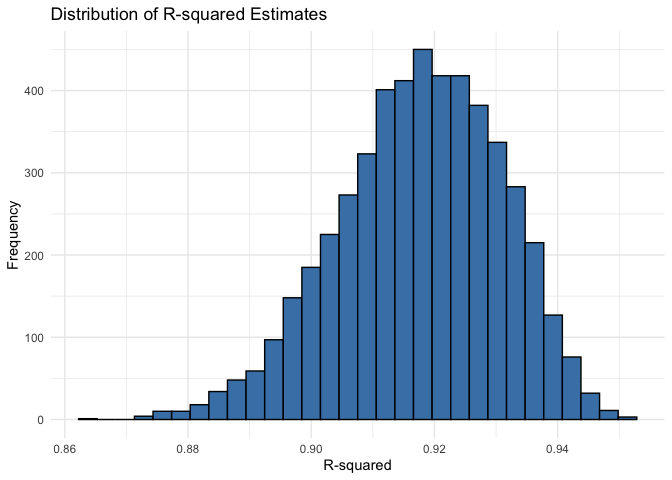
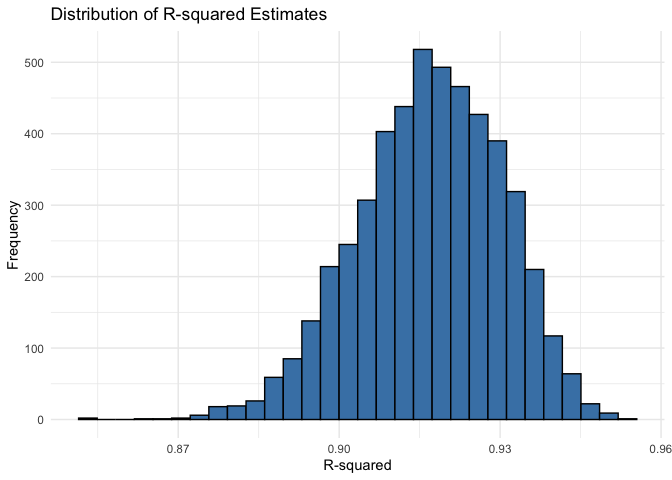
finish the problem 3 and added some comments

diff --git a/p8105_hw6_jy3360.md b/p8105_hw6_jy3360.md
@@ -311,12 +311,12 @@ head(bootstrap_results_2)
     ## # A tibble: 6 × 6
     ##   boot_number r.squared `(Intercept)`     prcp  tmin log_product
     ##         <int>     <dbl>         <dbl>    <dbl> <dbl>       <dbl>
-    ## 1           1     0.916          8.31 -0.00279 0.994       NA   
-    ## 2           2     0.894          8.44  0.00257 0.988       -5.97
-    ## 3           3     0.907          8.05  0.00470 1.01        -5.35
-    ## 4           4     0.930          7.66 -0.00554 1.04        NA   
-    ## 5           5     0.921          8.17 -0.00844 1.01        NA   
-    ## 6           6     0.917          7.90  0.00423 1.02        -5.45
+    ## 1           1     0.910          8.22 -0.00376  1.01       NA   
+    ## 2           2     0.927          8.40 -0.00805  1.01       NA   
+    ## 3           3     0.911          7.87  0.00403  1.02       -5.50
+    ## 4           4     0.916          8.40 -0.00319  1.01       NA   
+    ## 5           5     0.920          7.85 -0.00565  1.03       NA   
+    ## 6           6     0.909          7.97  0.00456  1.02       -5.37
 
 ``` r
 # Plot the distribution of r^2 estimates
@@ -337,7 +337,7 @@ bootstrap_results_2 %>%
        x = "log(beta1 * beta2)", y = "Frequency")
 ```
 
-    ## Warning: Removed 3419 rows containing non-finite values (`stat_bin()`).
+    ## Warning: Removed 3369 rows containing non-finite values (`stat_bin()`).
 
 ![](p8105_hw6_jy3360_files/figure-gfm/unnamed-chunk-7-2.png)<!-- -->
 
@@ -370,11 +370,13 @@ ci_95 %>%
 | quantity_type | lower_ci | upper_ci |
 |:--------------|---------:|---------:|
 | r_squared     |    0.889 |    0.941 |
-| log_product   |   -8.975 |   -4.622 |
+| log_product   |   -8.875 |   -4.552 |
+
+**Comments**
 
 - The 95% CI for $\hat{r}^2$ is (0.889, 0.941)
-- The 95% CI for $\log(\hat{\beta}_1 \times \hat{\beta}_2)$ is (-8.975,
-  -4.622)
+- The 95% CI for $\log(\hat{\beta}_1 \times \hat{\beta}_2)$ is (-8.875,
+  -4.552)
 
 # Problem 3
 
@@ -406,67 +408,27 @@ consists of roughly 4000 children and includes the following variables:
 - `smoken`: average number of cigarettes smoked per day during pregnancy
 - `wtgain`: mother’s weight gain during pregnancy (pounds)
 
+### Part a
+
 Load and clean the data for regression analysis (i.e. convert numeric to
 factor where appropriate, check for missing data, etc.).
 
 ``` r
-birth_data <- read.csv('birthweight.csv')
+birth_data <- 
+  read.csv('birthweight.csv') %>%
+  janitor::clean_names() %>%
+  drop_na() 
 
 # convert the necessary variables to factors
 categorical_vars <- c('babysex', 'frace', 'malform', 'mrace')
 birth_data[categorical_vars] <- lapply(birth_data[categorical_vars], factor)
 
 # deselect variables with all 0 observations 
-# to convert grams to pounds, you can multiply the number of grams by 0.00220462
+# to convert grams to pounds by multiplying the number of grams by 0.00220462
 birth_data <- birth_data %>%
   select(-c(pnumlbw, pnumsga)) %>%
   mutate(bwt = bwt * 0.00220462)
-
-# check for missing values
-skimr::skim(birth_data)
 ```
-
-|                                                  |            |
-|:-------------------------------------------------|:-----------|
-| Name                                             | birth_data |
-| Number of rows                                   | 4342       |
-| Number of columns                                | 18         |
-| \_\_\_\_\_\_\_\_\_\_\_\_\_\_\_\_\_\_\_\_\_\_\_   |            |
-| Column type frequency:                           |            |
-| factor                                           | 4          |
-| numeric                                          | 14         |
-| \_\_\_\_\_\_\_\_\_\_\_\_\_\_\_\_\_\_\_\_\_\_\_\_ |            |
-| Group variables                                  | None       |
-
-Data summary
-
-**Variable type: factor**
-
-| skim_variable | n_missing | complete_rate | ordered | n_unique | top_counts                      |
-|:--------------|----------:|--------------:|:--------|---------:|:--------------------------------|
-| babysex       |         0 |             1 | FALSE   |        2 | 1: 2230, 2: 2112                |
-| frace         |         0 |             1 | FALSE   |        5 | 1: 2123, 2: 1911, 4: 248, 3: 46 |
-| malform       |         0 |             1 | FALSE   |        2 | 0: 4327, 1: 15                  |
-| mrace         |         0 |             1 | FALSE   |        4 | 1: 2147, 2: 1909, 4: 243, 3: 43 |
-
-**Variable type: numeric**
-
-| skim_variable | n_missing | complete_rate |   mean |    sd |     p0 |    p25 |    p50 |    p75 |   p100 | hist  |
-|:--------------|----------:|--------------:|-------:|------:|-------:|-------:|-------:|-------:|-------:|:------|
-| bhead         |         0 |             1 |  33.65 |  1.62 |  21.00 |  33.00 |  34.00 |  35.00 |  41.00 | ▁▁▆▇▁ |
-| blength       |         0 |             1 |  49.75 |  2.72 |  20.00 |  48.00 |  50.00 |  51.00 |  63.00 | ▁▁▁▇▁ |
-| bwt           |         0 |             1 |   6.87 |  1.13 |   1.31 |   6.19 |   6.91 |   7.63 |  10.56 | ▁▁▇▇▁ |
-| delwt         |         0 |             1 | 145.57 | 22.21 |  86.00 | 131.00 | 143.00 | 157.00 | 334.00 | ▅▇▁▁▁ |
-| fincome       |         0 |             1 |  44.11 | 25.98 |   0.00 |  25.00 |  35.00 |  65.00 |  96.00 | ▃▇▅▂▃ |
-| gaweeks       |         0 |             1 |  39.43 |  3.15 |  17.70 |  38.30 |  39.90 |  41.10 |  51.30 | ▁▁▂▇▁ |
-| menarche      |         0 |             1 |  12.51 |  1.48 |   0.00 |  12.00 |  12.00 |  13.00 |  19.00 | ▁▁▂▇▁ |
-| mheight       |         0 |             1 |  63.49 |  2.66 |  48.00 |  62.00 |  63.00 |  65.00 |  77.00 | ▁▁▇▂▁ |
-| momage        |         0 |             1 |  20.30 |  3.88 |  12.00 |  18.00 |  20.00 |  22.00 |  44.00 | ▅▇▂▁▁ |
-| parity        |         0 |             1 |   0.00 |  0.10 |   0.00 |   0.00 |   0.00 |   0.00 |   6.00 | ▇▁▁▁▁ |
-| ppbmi         |         0 |             1 |  21.57 |  3.18 |  13.07 |  19.53 |  21.03 |  22.91 |  46.10 | ▃▇▁▁▁ |
-| ppwt          |         0 |             1 | 123.49 | 20.16 |  70.00 | 110.00 | 120.00 | 134.00 | 287.00 | ▅▇▁▁▁ |
-| smoken        |         0 |             1 |   4.15 |  7.41 |   0.00 |   0.00 |   0.00 |   5.00 |  60.00 | ▇▁▁▁▁ |
-| wtgain        |         0 |             1 |  22.08 | 10.94 | -46.00 |  15.00 |  22.00 |  28.00 |  89.00 | ▁▁▇▁▁ |
 
 Propose a regression model for birthweight.
 
@@ -478,7 +440,7 @@ Propose a regression model for birthweight.
   making this plot.
 
 ``` r
-# fit a linear model
+# 1. Fit the initial model with all variables 
 model_full <- lm(bwt ~ ., data = birth_data)
 summary(model_full)
 ```
@@ -523,28 +485,89 @@ summary(model_full)
     ## Multiple R-squared:  0.7183, Adjusted R-squared:  0.717 
     ## F-statistic: 524.6 on 21 and 4320 DF,  p-value: < 2.2e-16
 
+**Comments**
+
+- Based on the summary for model_full that includes all the variables,
+  variables bhead, blength, delwt, gaweeks, mrace, smoken and parity are
+  statistically significant with p-value less than 0.05. So we’ll fit
+  another model with those significant variables.
+- We also found NA values for the wtgain coefficient in the linear model
+  output. It may because wtgain is highly correlated with another
+  variable, like ppwt, so it could cause multicollinearity, which can
+  result in NA estimates.
+
 ``` r
-# add predictions and residuals to the dataset
-birth_data <- birth_data %>%
-  modelr::add_predictions(model_full) %>%
-  modelr::add_residuals(model_full)
+# fit a linear model
+model_1 <- lm(bwt ~ bhead + blength + delwt + gaweeks + mrace + smoken + parity, 
+              data = birth_data)
+summary(model_1)
 ```
 
-    ## Warning in predict.lm(model, data): prediction from rank-deficient fit; attr(*,
-    ## "non-estim") has doubtful cases
-
-    ## Warning in predict.lm(model, data): prediction from rank-deficient fit; attr(*,
-    ## "non-estim") has doubtful cases
+    ## 
+    ## Call:
+    ## lm(formula = bwt ~ bhead + blength + delwt + gaweeks + mrace + 
+    ##     smoken + parity, data = birth_data)
+    ## 
+    ## Residuals:
+    ##     Min      1Q  Median      3Q     Max 
+    ## -2.4371 -0.3974 -0.0061  0.3806  5.1262 
+    ## 
+    ## Coefficients:
+    ##               Estimate Std. Error t value Pr(>|t|)    
+    ## (Intercept) -1.270e+01  2.145e-01 -59.214  < 2e-16 ***
+    ## bhead        2.864e-01  7.546e-03  37.946  < 2e-16 ***
+    ## blength      1.670e-01  4.460e-03  37.437  < 2e-16 ***
+    ## delwt        5.028e-03  4.327e-04  11.619  < 2e-16 ***
+    ## gaweeks      2.782e-02  3.219e-03   8.642  < 2e-16 ***
+    ## mrace2      -3.247e-01  2.040e-02 -15.914  < 2e-16 ***
+    ## mrace3      -1.647e-01  9.374e-02  -1.756   0.0791 .  
+    ## mrace4      -2.586e-01  4.139e-02  -6.248 4.56e-10 ***
+    ## smoken      -1.067e-02  1.297e-03  -8.229 2.47e-16 ***
+    ## parity       2.256e-01  8.943e-02   2.523   0.0117 *  
+    ## ---
+    ## Signif. codes:  0 '***' 0.001 '**' 0.01 '*' 0.05 '.' 0.1 ' ' 1
+    ## 
+    ## Residual standard error: 0.6044 on 4332 degrees of freedom
+    ## Multiple R-squared:  0.7141, Adjusted R-squared:  0.7135 
+    ## F-statistic:  1202 on 9 and 4332 DF,  p-value: < 2.2e-16
 
 ``` r
+summary(model_1) %>% 
+  broom::glance()
+```
+
+    ## # A tibble: 1 × 8
+    ##   r.squared adj.r.squared sigma statistic p.value    df df.residual  nobs
+    ##       <dbl>         <dbl> <dbl>     <dbl>   <dbl> <dbl>       <int> <dbl>
+    ## 1     0.714         0.713 0.604     1202.       0     9        4332  4342
+
+``` r
+# add predictions and residuals to the dataset
+birth_data_pred_1 <- birth_data %>%
+  modelr::add_predictions(model_1) %>%
+  modelr::add_residuals(model_1)
+
 # plot of residuals against fitted values
-ggplot(birth_data, aes(x = pred, y = resid)) +
+ggplot(birth_data_pred_1, aes(x = pred, y = resid)) +
   geom_point(alpha = 0.2) +
   geom_hline(yintercept = 0, linetype = "dashed") +
   labs(x = "Fitted values", y = "Residuals", title = "Residuals vs Fitted Values")
 ```
 
-![](p8105_hw6_jy3360_files/figure-gfm/unnamed-chunk-10-1.png)<!-- -->
+![](p8105_hw6_jy3360_files/figure-gfm/unnamed-chunk-11-1.png)<!-- -->
+
+**Comments:**
+
+- Based on the summary, most of the variables contained in the model_1
+  are statistically significant. We can also see that R-squared =
+  0.7141, which means that it explains 71.41% of the variability in
+  birthweight.
+- We can also see from the Residuals vs Fitted Plot, which indicates
+  that residuals are mostly randomly dispersed around the horizontal
+  line at zero, but we can also observe a few outliers on the top of the
+  plot.
+
+### Part b
 
 Compare your model to two others:
 
@@ -561,49 +584,74 @@ itself is not a main idea of the course and we don’t necessarily expect
 your model to be “optimal”.
 
 ``` r
-# model comparison 1
-model_1 <- lm(bwt ~ blength + gaweeks, data = birth_data)
-
 # model comparison 2
-model_2 <- lm(bwt ~ bhead * blength * babysex, data = birth_data)
+model_2 <- lm(bwt ~ blength + gaweeks, data = birth_data)
 
-# list of models to compare
-models <- list(
-  full = lm(formula = bwt ~ ., data = birth_data),
-  length_gaweeks = lm(formula = bwt ~ blength + gaweeks, data = birth_data),
-  head_length_sex_interactions = lm(formula = bwt ~ bhead * blength * babysex, data = birth_data)
-)
+birth_data_pred_2 <- 
+  birth_data %>%
+  modelr::add_residuals(model_2) %>% 
+  modelr::add_predictions(model_2)
 
-# Define the number of cross-validation rounds
-set.seed(123) # for reproducibility
-cv_folds <- crossv_mc(birth_data, 100) # 100 resamples for Monte Carlo CV
+# model comparison 3
+model_3 <- lm(bwt ~ bhead * blength * babysex, data = birth_data)
 
-# Function to calculate RMSE for each fold for a given model
-calc_rmse <- function(model, fold) {
-  test_data <- assessment(fold)  # Make sure `modelr` is loaded to access this function
-  predictions <- predict(model, newdata = test_data)
-  actuals <- test_data[[1]][["bwt"]]  # Correct way to extract 'bwt' using the '[[1]]' to access the dataframe
-  rmse <- sqrt(mean((actuals - predictions)^2))
-  return(rmse)
-}
-
-# Calculate RMSE for each fold and each model
-rmse_results <- map(models, ~ map_dbl(cv_folds$splits, calc_rmse, model = .x))
+birth_data_pred_3 <- 
+  birth_data %>%
+  modelr::add_residuals(model_3) %>% 
+  modelr::add_predictions(model_3)
 ```
-
-    ## Warning: Unknown or uninitialised column: `splits`.
-    ## Unknown or uninitialised column: `splits`.
-    ## Unknown or uninitialised column: `splits`.
 
 ``` r
-# Calculate the mean RMSE for each model
-mean_rmse_results <- map_dbl(rmse_results, mean)
+# 100 resamples for Monte Carlo CV
+set.seed(123) 
+cv_folds <- 
+  crossv_mc(birth_data, 100) %>%
+  mutate(train = purrr::map(train, as_tibble),  # mutate the form to be tibbles 
+         test = purrr::map(test, as_tibble)) 
 
-# Print the results
-print(mean_rmse_results)
+
+cv_df = 
+  cv_folds %>% 
+  mutate(
+    model_1 = purrr::map(train, \(df) lm(bwt ~ bhead + blength + delwt + gaweeks + mrace + smoken + parity,
+                                         data = df)),
+    model_2 = purrr::map(train, \(df) lm(bwt ~ blength + gaweeks,
+                                 data = df)),
+    model_3 = purrr::map(train, \(df) lm(bwt ~ bhead * blength * babysex, 
+                                 data = df))) 
+
+# make this comparison in terms of the cross-validated prediction error
+cv_df_2 <-
+  cv_df %>% 
+  mutate(
+    rmse_1 = purrr::map2_dbl(model_1, test, \(mod, df) rmse(model = mod, data = df)),
+    rmse_2 = purrr::map2_dbl(model_2, test, \(mod, df) rmse(model = mod, data = df)),
+    rmse_3 = purrr::map2_dbl(model_3, test, \(mod, df) rmse(model = mod, data = df))
+    ) %>%
+  select(rmse_1, rmse_2, rmse_3) %>%
+  pivot_longer(
+    everything(),
+    names_to = "model", 
+    values_to = "rmse",
+    names_prefix = "rmse_")
 ```
 
-    ##                         full               length_gaweeks 
-    ##                          NaN                          NaN 
-    ## head_length_sex_interactions 
-    ##                          NaN
+    ## Warning: There was 1 warning in `mutate()`.
+    ## ℹ In argument: `rmse_1 = purrr::map2_dbl(...)`.
+    ## Caused by warning in `predict.lm()`:
+    ## ! prediction from rank-deficient fit; attr(*, "non-estim") has doubtful cases
+
+``` r
+cv_df_2 %>% 
+  mutate(model = fct_inorder(model)) %>% 
+  ggplot(aes(x = model, y = rmse, color = model)) + 
+  geom_boxplot() +
+  labs(title = "RMSE for Each Model", 
+       x = "Models", 
+       y = "Root Mean Square Error") 
+```
+
+![](p8105_hw6_jy3360_files/figure-gfm/unnamed-chunk-14-1.png)<!-- -->
+
+Based on the plot above, we can see that model_1 is the most optimal
+model which has the lowest overall cross-validated prediction error.
